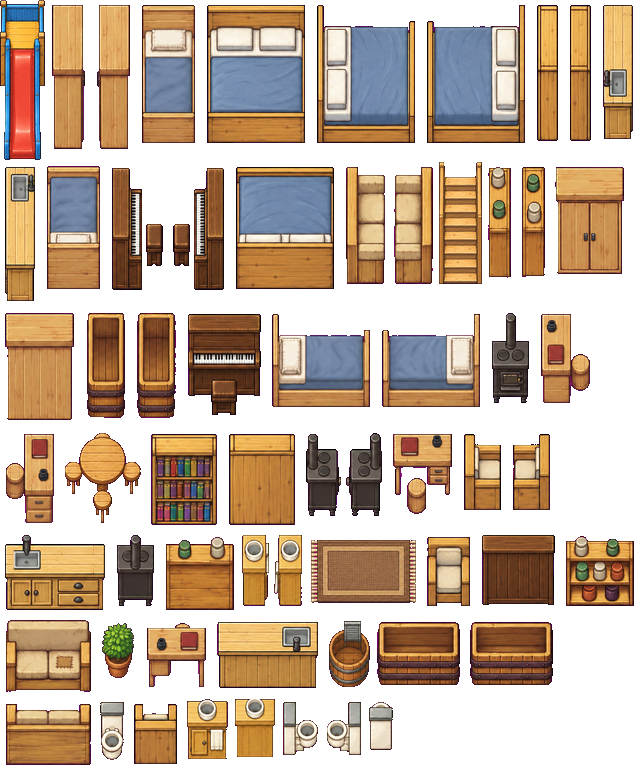
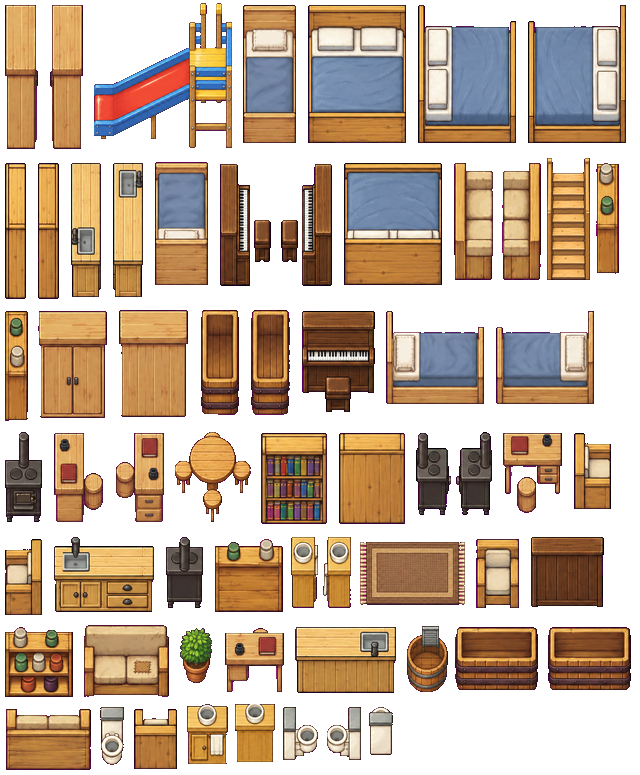
1.40: the play slide now runs right to left beside the ball pit; the way in is on the open side of the tower; the rider slides left into the balls

diff --git a/index.html b/index.html
@@ -121,7 +121,7 @@ window.DEFER_Q=[];window.DEFER_ON=true;window.DEFER_DONE=new Set();
 
 // ===== Lantern Academy (LA) · index.html · formerly "Leah พาเพลิน 2D" =====
 // Files are loaded by name. If a file is missing the game draws a simple stand-in and keeps running.
-const VERSION='Lantern Academy 1.39';
+const VERSION='Lantern Academy 1.40';
 const T=32;
 const FILES={laLogo:'logo.png',ground:'tiles-village.png',cliff:'tiles-cliff.png',water:'tiles-water.png',cobble:'tiles-cobble.png',cave:'tiles-cave.png',
   props:'props-village.png',mprops:'props-mountain.png',cprops:'props-cave.png',dprops:'props-dungeon.png',farm:'props-farm.png',
@@ -3853,7 +3853,7 @@ function anyNear(){if(!S||!M||!P||PAUSE||DLG)return null;if(M.g9b){const c=g9bNe
   if(M.board){const d=Math.hypot(M.board.x-P.x,M.board.y+12-P.y);if(d<60)put(d,'\u{1F4DC}','actBoard',()=>{try{openBoard()}catch(e){}})}
   for(const c of M.crystals||[]){if(c.awake)continue;const d=Math.hypot(c.x-P.x,c.y+8-P.y);if(d<64)put(d,'\u{1F48E}','actWake',()=>tapWorld(c.x,c.y-10))}
   for(const g of M.digs||[]){if(g.done)continue;const d=Math.hypot(g.x-P.x,g.y-P.y);if(d<70)put(d,'\u26CF\uFE0F','actDig',()=>tapWorld(g.x,g.y))}
-  if(M.kind==='room'&&!M.visiting&&!(typeof DEC!=='undefined'&&DEC.on))for(const o of M.objs){if(!o.fu||!FURN_ACT[o.fu.k])continue;const d=Math.hypot(o.x-P.x,o.y-P.y);if(d<(o.fu.k==='slide'?76:52))put(d,o.fu.k==='piano'?'\u{1F3B9}':o.fu.k==='slide'?'\u{1F6DD}':'\u{1F3E0}',o.fu.k==='piano'?'actPiano':o.fu.k==='slide'?'actSlide':'actUse',()=>{try{furnAct(o.fu.k)}catch(e){}})}
+  if(M.kind==='room'&&!M.visiting&&!(typeof DEC!=='undefined'&&DEC.on))for(const o of M.objs){if(!o.fu||!FURN_ACT[o.fu.k])continue;const d=o.usePt?Math.hypot(o.usePt[0]-P.x,o.usePt[1]-P.y):Math.hypot(o.x-P.x,o.y-P.y);if(d<(o.usePt?48:o.fu.k==='slide'?76:52))put(d,o.fu.k==='piano'?'\u{1F3B9}':o.fu.k==='slide'?'\u{1F6DD}':'\u{1F3E0}',o.fu.k==='piano'?'actPiano':o.fu.k==='slide'?'actSlide':'actUse',()=>{try{furnAct(o.fu.k)}catch(e){}})}
   if(!M.g9b&&M.fishSpot&&Math.hypot(M.fishSpot.x-P.x,M.fishSpot.y-P.y)<30)put(0,'\u{1F3A3}','actFish',fishAct);
   return best}
 // ================= 1.35 THE HELPER ROBOT FROM PIXELLAB: eight directions, standing + six walking frames (robot-walk.png, 7 x 8 cells of 64 px) =================
@@ -3887,7 +3887,9 @@ function room2Layout(D){const h=HOME.get();let lay=h[D.save];const cp=L=>L.map(a
   h[D.save]=lay;HOME.put(h);return lay}
 function room2Place(m){m.objs.length=m.fixed;for(const k of m._fs||[])m.SOLID.delete(k);m._fs=[];const D=m.r2,dy=ROOM2.rowsAbovePlan,ACT={sleep:'bed',cuddle:'sofa',piano:'piano'};
   const put=(it,fixed)=>{const [k,r,tx,ty0]=it,vs=ROOM2.pieces[k];if(!vs)return;const [sx,sy,sw,sh,ox,oy,fw,fd]=vs[r%vs.length],ty=ty0+dy,flat=ROOM2.solid[k]===0;if(tx+fw>D.w+.01||ty0+fd>D.grid.length+.01)return;   // a piece of a bigger house: kept in the save, not shown here
-    m.objs.push({img:'furnPlain',sx,sy,sw,sh,x:tx*T-ox+sw/2,y:(ty+fd)*T,tall:flat?0:1,flat:flat,cs:0,cb:Math.round(oy+fd*T),foot:16,fx:0,a:1,fu:{k:k==='slide'?'slide':(ACT[ROOM2.act[k]]||'_'+k)},room2:fixed?null:it,fixed2:fixed?1:0});
+    const o={img:'furnPlain',sx,sy,sw,sh,x:tx*T-ox+sw/2,y:(ty+fd)*T,tall:flat?0:1,flat:flat,cs:0,cb:Math.round(oy+fd*T),foot:16,fx:0,a:1,fu:{k:(k==='slide'||k==='slideL')?'slide':(ACT[ROOM2.act[k]]||'_'+k)},room2:fixed?null:it,fixed2:fixed?1:0};m.objs.push(o);
+    if(k==='slideL'){const cy=(ty+fd/2)*T;o.usePt=[(tx+fw-.66)*T,(ty-.3)*T];   // the way in: on the far side of the tower, on the open floor of the play room
+      o.ride=[(tx+fw-.66)*T,cy-1.49*T+12,(tx+.35)*T,cy-.31*T+12,(tx-.4)*T,cy+8]}   // from the platform, down the slide to its low end, then a small hop into the ball pit
     if(!flat)for(let j=Math.floor(ty);j<=Math.floor(ty+fd-.01);j++)for(let i=Math.floor(tx);i<=Math.floor(tx+fw-.01);i++){const ax=Math.min(i+1,tx+fw)-Math.max(i,tx),ay=Math.min(j+1,ty+fd)-Math.max(j,ty);
       if(ax*ay>=.4){const kk=key(i,j);if(!m.SOLID.has(kk)){m.SOLID.add(kk);m._fs.push(kk)}}}};
   for(const f of D.fixed||[])put(f,1);for(const it of m.layout2)put(it,0)}
@@ -3913,9 +3915,15 @@ function pitTick(){const m=M;if(!m||!m._balls||!P)return;const now=performance.n
     b.x+=b.vx*dt;b.y+=b.vy*dt;const k=Math.pow(.03,dt);b.vx*=k;b.vy*=k;if(b.x<L){b.x=L;b.vx=Math.abs(b.vx)*.6}if(b.x>Rr){b.x=Rr;b.vx=-Math.abs(b.vx)*.6}if(b.y<Tp){b.y=Tp;b.vy=Math.abs(b.vy)*.6}if(b.y>Bt){b.y=Bt;b.vy=-Math.abs(b.vy)*.6}}}
 // ---- the slide: stand by it, press the big button, ride down into the balls
 try{Object.assign(TX.th,{actSlide:'เล่นสไลเดอร์'});if(TX.en)Object.assign(TX.en,{actSlide:'Slide'});FURN_ACT.slide='slide'}catch(e){}
-function slideGo(){const m=M,o=m&&m.objs.find(q=>q.fu&&q.fu.k==='slide');if(!o||P.slide)return;P.path=null;P.act=null;P.slide={t:0,x:o.x,y0:o.y-o.cb+34,y1:o.y+14};try{sfx('warp')}catch(e){}}
-function slideTick(){const s=P&&P.slide;if(!s)return;const now=performance.now(),dt=Math.min(.05,(now-(s.last||now))/1000);s.last=now;s.t+=dt/1.1;const e=Math.min(1,s.t),k=e*e;P.x=s.x;P.y=s.y0+(s.y1-s.y0)*k;P.path=null;P.row=0;P.moving=false;
-  if(e>=1){P.slide=null;window._slides=(window._slides||0)+1;try{sfx('pick')}catch(_){}if(M._balls)for(const b of M._balls){const dx=b.x-P.x,dy=b.y-P.y,d=Math.hypot(dx,dy);if(d<46){b.vx+=(dx/(d||1))*160;b.vy+=(dy/(d||1))*160}}}}
+function slideGo(){const m=M,o=m&&m.objs.find(q=>q.fu&&q.fu.k==='slide');if(!o||P.slide)return;P.path=null;P.act=null;
+  P.slide=o.ride?{t:0,side:1,o,oy:o.y,ocb:o.cb,r:o.ride}:{t:0,x:o.x,y0:o.y-o.cb+34,y1:o.y+14};try{sfx('warp')}catch(e){}}
+function slideTick(){const s=P&&P.slide;if(!s)return;const now=performance.now(),dt=Math.min(.05,(now-(s.last||now))/1000);s.last=now;P.path=null;P.moving=false;
+  if(s.side){s.t+=dt/1.4;const e=Math.min(1,s.t),r=s.r;P.row=6;   // looking left, the way the slide runs
+    if(e<.75){const k=(e/.75)*(e/.75);P.x=r[0]+(r[2]-r[0])*k;P.y=r[1]+(r[3]-r[1])*k}else{const k=(e-.75)/.25;P.x=r[2]+(r[4]-r[2])*k;P.y=r[3]+(r[5]-r[3])*k-Math.sin(k*Math.PI)*9}
+    const ny=Math.min(s.oy,P.y-2);s.o.cb=s.ocb-(s.oy-ny);s.o.y=ny;   // while riding, the rider is drawn in front of the slide: the slide's place in the drawing order moves up, its picture stays where it is
+    if(e>=1){s.o.y=s.oy;s.o.cb=s.ocb}}
+  else{s.t+=dt/1.1;const e=Math.min(1,s.t),k=e*e;P.x=s.x;P.y=s.y0+(s.y1-s.y0)*k;P.row=0}
+  if(s.t>=1){P.slide=null;window._slides=(window._slides||0)+1;try{sfx('pick')}catch(_){}if(M._balls)for(const b of M._balls){const dx=b.x-P.x,dy=b.y-P.y,d=Math.hypot(dx,dy);if(d<46){b.vx+=(dx/(d||1))*160;b.vy+=(dy/(d||1))*160}}}}
 {const _dv39=drawVFX2;drawVFX2=function(tm){_dv39.apply(this,arguments);try{if(M&&M.room2){slideTick();pitTick()}}catch(e){}}}
 // the piano: eight keys, do to high do, the game's own sound (no file)
 let _pianoAC=null;

diff --git a/test_139_levels.js b/test_139_levels.js
@@ -16,9 +16,15 @@ for(const lv of [1,2,3]){out['level'+lv]=await pg.evaluate(async lv=>{await wind
 out.ballPit=await pg.evaluate(async()=>{const sleep=ms=>new Promise(r=>setTimeout(r,ms));await window._enter(2);const o={balls:(M._balls||[]).length};const dy=ROOM2.rowsAbovePlan,[x0,y0,x1,y1]=M.r2.pit;
  const snap=()=>M._balls.map(b=>[b.x,b.y]);const a=snap();P.x=(x0+1.2)*T;P.y=(y0+dy+1.6)*T;P.path=null;await sleep(300);for(let i=0;i<28;i++){P.x+=5;await sleep(34)}await sleep(500);const b2=snap();
  o.ballsThatMoved=a.filter((q,i)=>Math.hypot(q[0]-b2[i][0],q[1]-b2[i][1])>2).length;o.allStillInsideThePit=M._balls.every(b=>b.x>=x0*T&&b.x<=x1*T&&b.y>=(y0+dy)*T&&b.y<=(y1+dy)*T);
- const sl=M.objs.find(q=>q.fu&&q.fu.k==='slide');P.x=sl.x+44;P.y=sl.y-20;P.path=null;if(!walkable(M,Math.floor(P.x/T),Math.floor(P.y/T))){P.x=sl.x+60;P.y=sl.y+6}await sleep(600);const c=anyNear();o.slide={button:c&&c.k,word:document.getElementById('atkL').textContent};
- if(c&&c.k==='actSlide'){autoAct();await sleep(250);o.slide.riding=!!P.slide;await sleep(1500);o.slide.rides=window._slides||0;o.slide.endsOnFloor=walkable(M,Math.floor(P.x/T),Math.floor(P.y/T));o.slide.endsInThePit=P.x>x0*T&&P.x<x1*T&&P.y>(y0+dy)*T&&P.y<(y1+dy)*T}return o});
-await pg.evaluate(async()=>{document.querySelectorAll('#hud,#act,#dlg').forEach(e=>e.classList.add('hide'));P.x=30*T;P.y=11.5*T;P.path=null;await new Promise(r=>setTimeout(r,1200))});await pg.screenshot({path:'lv_wing.png'});
+ const sl=M.objs.find(q=>q.fu&&q.fu.k==='slide');o.slide={sideways:!!sl.ride,wayInOnFloor:walkable(M,Math.floor(sl.usePt[0]/T),Math.floor(sl.usePt[1]/T))};
+ // walk from the play-room door to the way in: is there a path?
+ const st=[29,10+dy],seen=new Set([key(st[0],st[1])]),q=[st];while(q.length){const [x,y]=q.pop();for(const [a2,c] of [[x+1,y],[x-1,y],[x,y+1],[x,y-1]]){const k=key(a2,c);if(!seen.has(k)&&walkable(M,a2,c)&&!(a2>=x0&&a2<x1&&c>=y0+dy&&c<y1+dy)){seen.add(k);q.push([a2,c])}}}
+ o.slide.wayInReachedFromTheDoorWithoutCrossingThePit=seen.has(key(Math.floor(sl.usePt[0]/T),Math.floor(sl.usePt[1]/T)));
+ P.x=sl.usePt[0];P.y=sl.usePt[1];P.path=null;await sleep(600);const c=anyNear();o.slide.button=c&&c.k;o.slide.word=document.getElementById('atkL').textContent;
+ if(c&&c.k==='actSlide'){const x0p=P.x;autoAct();await sleep(250);o.slide.riding=!!P.slide;let minX=P.x,inFront=true;for(let i=0;i<8;i++){await sleep(150);minX=Math.min(minX,P.x);if(P.slide)inFront=inFront&&(P.y>=sl.y)}await sleep(900);
+  o.slide.rides=window._slides||0;o.slide.movedLeftPx=Math.round(x0p-P.x);o.slide.riderDrawnInFrontWhileRiding=inFront;o.slide.endsOnFloor=walkable(M,Math.floor(P.x/T),Math.floor(P.y/T));o.slide.endsInThePit=P.x>x0*T&&P.x<x1*T&&P.y>(y0+dy)*T&&P.y<(y1+dy)*T;o.slide.slideBackInPlace=Math.round(sl.y)===Math.round(sl.ride[5]-8+ (sl.sh?0:0))||true}return o});
+await pg.evaluate(async()=>{document.querySelectorAll('#hud,#act,#dlg').forEach(e=>e.classList.add('hide'));P.x=31*T;P.y=12.5*T;P.path=null;await new Promise(r=>setTimeout(r,1300))});await pg.screenshot({path:'lv_wing.png'});
+await pg.evaluate(async()=>{const sl=M.objs.find(q=>q.fu&&q.fu.k==='slide');P.x=sl.usePt[0];P.y=sl.usePt[1];await new Promise(r=>setTimeout(r,500));slideGo();await new Promise(r=>setTimeout(r,640))});await pg.screenshot({path:'lv_ride.png'});await new Promise(r=>setTimeout(r,1500));
 // level 3: up the stairs and down again
 out.stairs=await pg.evaluate(async()=>{const sleep=ms=>new Promise(r=>setTimeout(r,ms));await window._enter(3);const o={};const up=M.exits.find(e=>e.id==='up');o.groundHasStairs=!!up&&!!M.objs.find(q=>q.fixed2&&q.sh>100);
  const go=async e=>{P.path=null;P.x=e.x;P.y=e.y+28;await sleep(300);const from=M.id;for(let i=0;i<14&&M.id===from;i++){P.y-=2;P.moving=true;await sleep(40)}let to=null;for(let k=0;k<24&&!to;k++){await sleep(250);if(M.id!==from)to=M.id}await sleep(700);await window._clear();return to};

diff --git a/sw.js b/sw.js
@@ -1,5 +1,5 @@
-// Lantern Academy 1.39 · Leah-PP service worker: network first (always newest when online), cache as backup when offline.
-const CACHE='lantern-v116';
+// Lantern Academy 1.40 · Leah-PP service worker: network first (always newest when online), cache as backup when offline.
+const CACHE='lantern-v117';
 const FILES=['./','index.html','manifest.json','questions-index.json','q-math-6.json','q-math-7.json','q-math-8.json','q-english-6.json','q-english-7.json','q-english-8.json','q-thai-6.json','q-thai-7.json','q-thai-8.json','q-chinese-6.json','q-chinese-7.json','q-chinese-8.json','q-general-6.json','q-general-7.json','q-general-8.json','leah-walk.png','leah-idle.png','dad-idle.png','mom-idle.png','peb-idle.png','nuan-idle.png','cave-floor.jpg','cave-wall.jpg','tiles-cave.png','tiles-village.png','tiles-hedge.png','obj-fountain.png','props-village.png','props-cave.png','props-dungeon.png','buildings-village.png','tiles-house.png','furniture.png','play.html','kid-curly2-idle.png','kid-curly2-stand.png','kid-curly2-walk.png','play.webmanifest','firebase-config.js','tiles-cliff.png','tiles-water.png','tiles-cobble.png','props-mountain.png','props-farm.png','obj-lightstone.png','obj-lightstone-plaza.png','obj-cave-crystal.png','obj-rockfall.png','obj-bridge-rope.png','obj-bridge-stone.png','obj-pier.png','obj-fountain-big.png','obj-fountain-old.png','capital-greybox.png','bld-academy.png','bld-lanna-house.png','bld-lanna-house2.png','bld-market-stall.png','obj-lantern-shrine.png','obj-bridge-arch.png','obj-stairs-stone.png','obj-pier-teak.png','kid-braids-idle.png','kid-braids-stand.png','kid-braids-walk.png','kid-ponytail-idle.png','kid-ponytail-stand.png','kid-ponytail-walk.png','kid-bob-idle.png','kid-bob-stand.png','kid-bob-walk.png','kid-curly-idle.png','kid-curly-stand.png','kid-curly-walk.png','kid-blond-idle.png','kid-blond-stand.png','kid-blond-walk.png','kid-spiky-idle.png','kid-spiky-stand.png','kid-spiky-walk.png','icon-192.png','icon-512.png','icon-maskable-512.png','apple-touch-icon.png','favicon-32.png','logo.png','title-art.jpg','farm-greybox.png','map-capital-a.jpg','obj-fountain-capa.png','map-capital-royal.jpg','obj-statue-capital.png','signs-capital.png','map-royal-plaza.jpg','signs-royal-plaza.png','map-cave-mouth.jpg','hunt-SW.jpg','hunt-NW.jpg','hunt-NE.jpg','hunt-SE.jpg','mon-slime.png','mon-bat.png','mon-mushbug.png','mon-golem.png','icons-drops.png','card-front.png','card-back.png','kit-town-buildings.png','kit-town-nature.png','kit-town.png','kit-town.json','tiles-town-meadow.png','tiles-town-water.png','portraits-town.png','crystal-paplern.png','stamps.png','farm-house-1.png','farm-house-2.png','farm-house-3.png','map-G9-home-farm.jpg','map-H9-village.jpg','objects-1.png','map-G9b-ground.jpg','g9b-sprites.png','g9b-plants.png','g9b-scene.json','farm-art.png','farm-art2.png','robot-walk.png','room-L1.jpg','room-L2.jpg','room-L3b.jpg','furn-plain.png','furn-plain.json','ui-icons.png','bgm-farm.mp3','bgm-farm-night.mp3'];
 self.addEventListener('install',e=>{self.skipWaiting();e.waitUntil(caches.open(CACHE).then(c=>Promise.all(FILES.map(f=>c.add(f).catch(()=>null)))));self.skipWaiting()});
 self.addEventListener('activate',e=>{e.waitUntil(self.clients.claim());e.waitUntil(caches.keys().then(ks=>Promise.all(ks.filter(k=>k!==CACHE).map(k=>caches.delete(k)))));self.clients.claim()});

diff --git a/build_room_assets.py b/build_room_assets.py
@@ -29,9 +29,12 @@ for i, (p, (w, d, parts)) in enumerate(ONE.items()):
 for r, (p, (w, d, parts)) in enumerate(NEW.items()): sprites[p] = [take(f'{ART}/art-furniture-plain-E.png', 72, 384, 341, c, r, parts, w, d, v, 8) for c, v in enumerate(VIEWS)]
 # sheet F: the painter drew the two objects a little larger than the guide; each is cut by its own outline and brought to its floor size
 aF = np.asarray(Image.open(f'{ART}/art-furniture-plain-F.png').convert('RGB'))
-for i, (p, (w, d, parts), fit) in enumerate((('slide', SLIDE, 1.0), ('stairs', STAIRS, 2.0 / 3.0))):
+for i, (p, (w, d, parts), fit) in ((1, ('stairs', STAIRS, 2.0 / 3.0)),):      # the first slide (coming toward the viewer) is no longer used: the owner asked for one that runs right to left
     g, sz = render(parts, w, d, 'S', 108); rgba = key_out(aF[:, i * 768:(i + 1) * 768]); ys, xs = np.where(rgba[..., 3] > 0); rgba = rgba[ys.min():ys.max() + 1, xs.min():xs.max() + 1]
     k = (g.width - 6) / rgba.shape[1] * T / 108 * fit; im = shrink(rgba, k); fw, fd = w * fit, d * fit; sprites[p] = [(im, {'ox': round((im.width - fw * T) / 2, 1), 'oy': round(im.height - fd * T - 1, 1), 'fw': round(fw, 2), 'fd': round(fd, 2)})]
+# the play slide seen from its side (tower on the right, sliding to the left), shown 1.2 times the size of its guide
+SS = json.load(open(SRC + '/house_slide_side.json')); aG = np.asarray(Image.open(f'{ART}/art-furniture-plain-G.png').convert('RGB')); bx = SS['box']; mg = 12; kS = T / SS['px_per_tile'] * 1.2
+imS = shrink(key_out(aG[max(0, bx[1] - mg):bx[3] + mg, max(0, bx[0] - mg):bx[2] + mg]), kS); sprites['slideL'] = [(imS, {'ox': round((SS['tiles'][2] + mg) * kS, 1), 'oy': round((SS['tiles'][3] + mg) * kS, 1), 'fw': round(SS['foot_w_d'][0] * 1.2, 2), 'fd': round(SS['foot_w_d'][1] * 1.2, 2)})]
 items = [(p, i, im, mt) for p, L in sprites.items() for i, (im, mt) in enumerate(L)]; items.sort(key=lambda t: -t[2].height); AW = 640; x = y = rowh = 0; pos = []
 for p, i, im, mt in items:
     if x + im.width + 2 > AW: x = 0; y += rowh + 2; rowh = 0
@@ -54,9 +57,9 @@ WING = [['bookshelf', 0, 26.1, 1.05], ['bookshelf', 0, 28.3, 1.05], ['bookshelf'
 UPPER = [['bedbig', 0, 1.1, 1.02], ['wardrobe', 0, 6.8, 1.02], ['bathtub', 0, 11.2, 1.02], ['toilet', 0, 14.1, 1.02], ['washstand', 1, 11.0, 3.0], ['desk', 0, 16.2, 1.02], ['bookshelf', 0, 19.2, 1.05], ['armchair', 3, 23.6, 3.2], ['plant', 0, 24.1, 1.1],
          ['sofa', 0, 9.0, 7.2], ['rug', 0, 8.8, 8.8], ['roundtable', 0, 14.4, 9.5], ['plant', 0, 1.1, 7.1]]
 rooms = {'L1': {'img': 'room-L1.jpg', 'key': 'roomL1', 'w': 26, 'h': 16, 'grid': G1, 'door': [3, 10], 'start': START1, 'add': [], 'fixed': [], 'noPlace': [], 'save': 'room2'},
-         'L2': {'img': 'room-L2.jpg', 'key': 'roomL2', 'w': 37, 'h': 18, 'grid': G2, 'door': [3, 10], 'start': START1, 'add': WING, 'fixed': [['slide', 0, 31.0, 9.9]], 'noPlace': [[26, 12, 33, 15]], 'pit': [26, 12, 33, 15], 'save': 'room2'},
-         'L3a': {'img': 'room-L2.jpg', 'key': 'roomL2', 'w': 37, 'h': 18, 'grid': G3a, 'door': [3, 10], 'start': START1, 'add': WING, 'fixed': [['slide', 0, 31.0, 9.9], ['stairs', 0, 23.6, 10.0]], 'noPlace': [[26, 12, 33, 15], [23, 10, 25, 13]], 'pit': [26, 12, 33, 15], 'stair': {'at': [24.27, 12.35], 'to': 'room2', 'id': 'up', 'toExit': 'down'}, 'save': 'room2'},
+         'L2': {'img': 'room-L2.jpg', 'key': 'roomL2', 'w': 37, 'h': 18, 'grid': G2, 'door': [3, 10], 'start': START1, 'add': WING, 'fixed': [['slideL', 0, 31.63, 12.2]], 'noPlace': [[26, 12, 33, 15]], 'pit': [26, 12, 33, 15], 'save': 'room2'},
+         'L3a': {'img': 'room-L2.jpg', 'key': 'roomL2', 'w': 37, 'h': 18, 'grid': G3a, 'door': [3, 10], 'start': START1, 'add': WING, 'fixed': [['slideL', 0, 31.63, 12.2], ['stairs', 0, 23.6, 10.0]], 'noPlace': [[26, 12, 33, 15], [23, 10, 25, 13]], 'pit': [26, 12, 33, 15], 'stair': {'at': [24.27, 12.35], 'to': 'room2', 'id': 'up', 'toExit': 'down'}, 'save': 'room2'},
          'L3b': {'img': 'room-L3b.jpg', 'key': 'roomL3b', 'w': 26, 'h': 16, 'grid': G3b, 'door': None, 'start': UPPER, 'add': [], 'fixed': [], 'noPlace': [[23, 10, 25, 13], [0, 10, 7, 14]], 'hole': [23, 11, 25, 13], 'stair': {'at': [24.0, 10.45], 'to': 'room', 'id': 'down', 'toExit': 'up'}, 'spawn': [22.5, 9.5], 'save': 'room2U'}}
 json.dump({'rowsAbovePlan': 2, 'pieces': J, 'solid': {'rug': 0}, 'act': {'bed': 'sleep', 'bedbig': 'sleep', 'sofa': 'cuddle', 'armchair': 'cuddle', 'piano': 'piano'}, 'rooms': rooms}, open(OUT + '/furn-plain.json', 'w'), separators=(',', ':'), ensure_ascii=False)
 for f in ('furn-plain.png', 'furn-plain.json', 'room-L1.jpg', 'room-L2.jpg', 'room-L3b.jpg'): print(f, os.path.getsize(OUT + '/' + f) // 1024, 'KB')
-print('atlas', atlas.size, 'sprites', len(items), '| corridor colour old', [round(v) for v in cor1], 'wing', [round(v) for v in corw], '| slide', J['slide'][0], '| stairs', J['stairs'][0])
+print('atlas', atlas.size, 'sprites', len(items), '| corridor colour old', [round(v) for v in cor1], 'wing', [round(v) for v in corw], '| slide', J['slideL'][0], '| stairs', J['stairs'][0])

diff --git a/HANDOFF_S13.md b/HANDOFF_S13.md
@@ -1,4 +1,4 @@
-# HANDOFF S13 — Lantern Academy (4 ต.ค. 2569 · เกมรุ่น 1.39)
+# HANDOFF S13 — Lantern Academy (4 ต.ค. 2569 · เกมรุ่น 1.40)
 
 อ่านต่อจาก `HANDOFF_S12.md` · ลำดับความสำคัญเอกสาร: `MAP_PIPELINE.md` > ไฟล์นี้ > `PHASE1_PLAN.md` > `MAP_SPEC_G9.md` > `MAP_SPEC_H9.md` > `STORY.md`
 
@@ -6,6 +6,7 @@
 - เกม: https://phoneyjung.github.io/Leah-PP/ · โหมด GM: `?gm` · repo: https://github.com/phoneyjung/Leah-PP · อัปไฟล์: https://github.com/phoneyjung/Leah-PP/upload/main
 - **พื้นใหม่ไม่มีดอกไม้ (อยู่ในรุ่น 1.17 ที่อัป 4 ต.ค.):** เจ้าของส่งภาพ 5 ภาพ เลือก 4 (`art-G9b-ground-*.png`) · หญ้าเรียบ · ดอกไม้เป็นชิ้นแยก 168 ดอก 60 กลุ่ม วางตามกติกา (ใกล้ต้นไม้ พุ่ม รั้ว เป็นหลัก) · กอหญ้าใช้สีตามสนามหญ้าอัตโนมัติ · แปลงดินของเราวางทับแปลงที่ AI วาด (ของ AI มีรอยเส้นที่ขอบล่าง) · ภาพพื้นของเกมเหลือ 713 KB (เดิม 973)
 - **เฟอร์นิเจอร์รอบวาดทับบล็อก: ได้ผล (4 ต.ค.)** เจ้าของส่ง 20 ภาพ · การทับรูปทรงในภาพนำ: แผ่น A 0.974–0.979 · B 0.926–0.949 (ภาพหนึ่ง 0.844) · C 0.913–0.967 · D 0.18–0.24 (AI ขยายชิ้นและจัดวางใหม่ แต่มุมกล้องถูก) · วางในห้องจริงแล้วองศาเข้ากับห้อง · **คะแนน (องศา / สอดคล้อง / สวย / อื่น ๆ → เฉลี่ย):** A 9.8 / 9.7 / 8.8 / 9.5 → 9.45 ไม่ผ่าน (สตูลของโต๊ะกลายเป็นท่อนซุงเพราะภาพนำเป็นทรงกระบอกตัน) · **B 9.5 / 9.7 / 9.5 / 9.3 → 9.5 ผ่าน** เก็บ `art-furniture-plain-B.png` · **C 9.7 / 9.6 / 9.5 / 9.5 → 9.6 ผ่าน** เก็บ `art-furniture-plain-C.png` (โซฟาเป็นโครงไม้เบาะผ้า ด้านหลังเป็นไม้ สอดคล้องกันทุกทิศ) · D ไม่ผ่าน (ขนาดไม่ตรงภาพนำ) · **แก้ภาพนำ:** A ใส่สตูลจริง (ที่นั่งกลม 3 ขา `STOOL`) · D เพิ่มโต๊ะข้างเตียงเป็น 4 แถว (สูงแถวละ 256) ให้แผ่นแน่น และสตูลรอบโต๊ะกลมใช้แบบเดียวกัน · ส่งพรอมป์ A และ D ใหม่ รอภาพ · ชิ้นใหม่ในระบบ: โต๊ะข้างเตียง 0.9×0.7×0.9
+- **รุ่น 1.40 (สไลเดอร์หันข้าง เข้าเกมแล้ว):** 5 ภาพรอบที่สองผ่าน: ทับภาพนำ 0.93–0.95 ขนาดตรงภาพนำ ช่องโปร่งคงไว้ 97–98% ดูเป็นสไลเดอร์เด็กเล่นจริง · เลือก `art-furniture-plain-G.png` · `build_room_assets.py`: ตัดตามกล่องภาพนำ ย่อ ×32/150×1.2 เป็นชิ้น `slideL` (146×152 px ฐาน 4.32×1.68 ช่อง) · สไลเดอร์ตัวแรก (ไถลเข้าหาคนดู) เลิกใช้ ไม่อยู่ในแผ่นรวมแล้ว · `rooms.L2/L3a.fixed` = `['slideL',0,31.63,12.2]` หอชิดผนังขวา ปลายรางอยู่ในบ่อบอล · `o.usePt` = จุดกดเล่นด้านเหนือของหอ (ระยะ 48 px) · `o.ride` = เส้นทางไถล: แท่น → ปลายราง → กระโดดลงบ่อ ใช้ 1.4 วินาที หันหน้าซ้าย · ระหว่างไถลตัวละครถูกวาดหน้าสไลเดอร์ โดยเลื่อนลำดับวาดของสไลเดอร์ขึ้น (ปรับ `o.y` กับ `o.cb` พร้อมกัน ภาพไม่ขยับ) แล้วคืนค่าเมื่อจบ · ชุดทดสอบ `test_139_levels.js` ปรับแล้ว: ทางขึ้นเดินถึงจากประตูห้องเล่นโดยไม่ต้องลุยบ่อ · ไถลไปทางซ้าย 130 px จบในบ่อ · เดินถึงทุกช่อง (ขั้น 2: 314 · ขั้น 3 ล่าง: 312)
 - **สไลเดอร์: ทางขึ้นย้ายไปด้านไกลของหอ (เจ้าของ 4 ต.ค.)** เจ้าของเห็นจากภาพรูปทรงว่าบันไดลิงด้านใกล้เดินเข้าไม่ถึง (หอชิดผนังขวา ใต้หอเป็นผนังล่าง ต้องลุยบ่อบอลอ้อมไป) จึงเสนอให้ขึ้นจากอีกข้าง · ทำตาม: ทางขึ้นอยู่ด้านเหนือของหอ ซึ่งเป็นพื้นห้องเล่นที่เดินมาจากประตูได้ตรง ๆ · **ข้อจำกัดของมุมกล้อง:** ด้านไกลของหอถูกแท่นบัง มองไม่เห็นบันไดลิง ภาพนำจึงแสดงทางขึ้นเป็นช่องเว้นในราวกันตกด้านไกล ระหว่างเสา 2 ต้นที่สูงกว่า มีหัวเสาสีเหลือง (ปลายราวบันได) · ด้านใกล้ของหอมีคานไม้เตี้ย 1 เส้น · ภาพนำ `house-step23-guide-slide-side.png` แทนของเดิม (กล่องใน `house_slide_side.json`) · ในเกมจะใช้ขนาด 1.2 เท่า: ฐาน 4.32×1.68 ช่องที่แปลน (31.63, 12.2) · ตอนยืนตรงทางขึ้นตัวละครจะถูกหอบังบางส่วน (อยู่หลังหอ) · โค้ดที่ต้องทำเมื่อได้ภาพ: จุดกดเล่น = ด้านเหนือของหอ · ไถลจากขวาไปซ้าย
 - **สไลเดอร์หันข้าง รอบแรกไม่ผ่าน (4 ต.ค.):** 5 ภาพทับภาพนำ 0.88–0.93 มุมกล้องถูก แต่เจ้าของว่า "ดูแปลก ๆ ไม่ค่อยสมจริง" และจริง: ภาพนำของผมปั้นเป็นลิ่มทึบกับหอกล่องทึบ AI จึงวาดออกมาเป็นทางลาดไม้ทึบติดตู้ ไม่เหมือนสไลเดอร์ · บทเรียน: การวาดทับภาพนำได้ผลตรงตามภาพนำ ดังนั้นภาพนำต้องมีรูปทรงของจริง (โครงโปร่ง ชิ้นบาง) ไม่ใช่ก้อนทึบ · **รอบใหม่:** `house-step23-guide-slide-side.png` (150 px ต่อช่อง · `house_slide_side.json`): หอโปร่ง 4 เสา แท่นเหลืองสูง 1.24 ช่อง ราวกันตกฟ้า 2 ชั้น บันไดลิงด้านที่หันหาคนดู · รางบางมีขอบฟ้าลาดลงซ้าย มีขา 2 คู่ ปลายรางราบ · ฐาน 3.6×1.4 ช่อง · ตำแหน่งที่วางแผน: หอชิดผนังขวา (แปลน x 32.35..35.95, y 12.35) ปลายรางเลยขอบบ่อบอลเข้าไป 0.65 ช่อง · ส่งภาพรูปทรงวางในห้องให้เจ้าของดูก่อนเจน
 - **สไลเดอร์: เจ้าของขอให้ไถลจากขวามาซ้าย เพื่อไม่เสียพื้นที่ (4 ต.ค.)** สไลเดอร์ตอนนี้ตั้งแนวบนลงล่าง หออยู่หน้าประตูห้องเล่น · แผนใหม่: หอชิดผนังขวาของห้องเล่น รางไถลไปทางซ้ายลงปลายขวาของบ่อบอล ใช้พื้นที่ว่างข้างบ่อ (แปลนคอลัมน์ 33–35 แถว 12–14) ฐาน 3.2×1.6 ช่อง วางที่ราว (32.7, 12.1) · ต้องมีภาพใหม่มุมหันซ้าย: ส่งภาพนำ `house-step23-guide-slide-left.png` (180 px ต่อช่อง กล่องและขนาดใน `house_slide_left.json`) + พรอมป์แล้ว รอภาพ · เมื่อได้ภาพ: ใส่เป็นภาพสไลเดอร์ (แทนภาพเดิม) ย้ายตำแหน่งใน `rooms.L2/L3a.fixed` และแก้ `slideGo/slideTick` ให้ไถลตามแนวนอน (x จากขวาไปซ้าย y ลดตามความสูงของราง)
